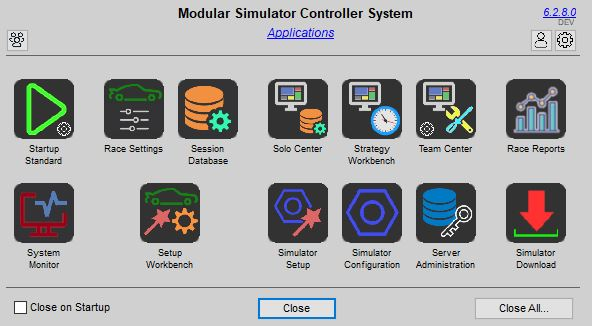
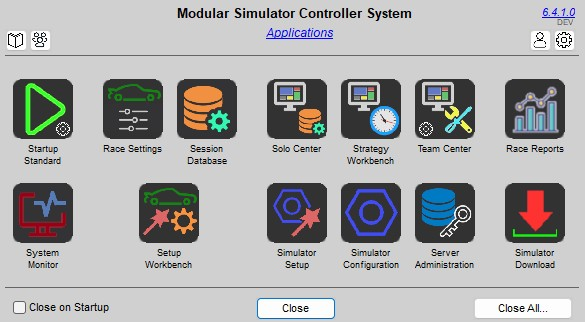
Documentation button in "Simulator Startup"

diff --git a/Docs/Releases.md b/Docs/Releases.md
@@ -41,6 +41,7 @@
     - Support for voice interaction with the Assistants using Japanese language output and recognition is included.
     - An installer for Japanese voice recognition libraries is provided, but in general the use of Azure, Google or Whisper is recommended.
   - Command reference sheets has been added to the documentation for Chinese.
+  - Added a button to "Simulator Startup", which opens the documentation entry page.
 
 # Release history
 
